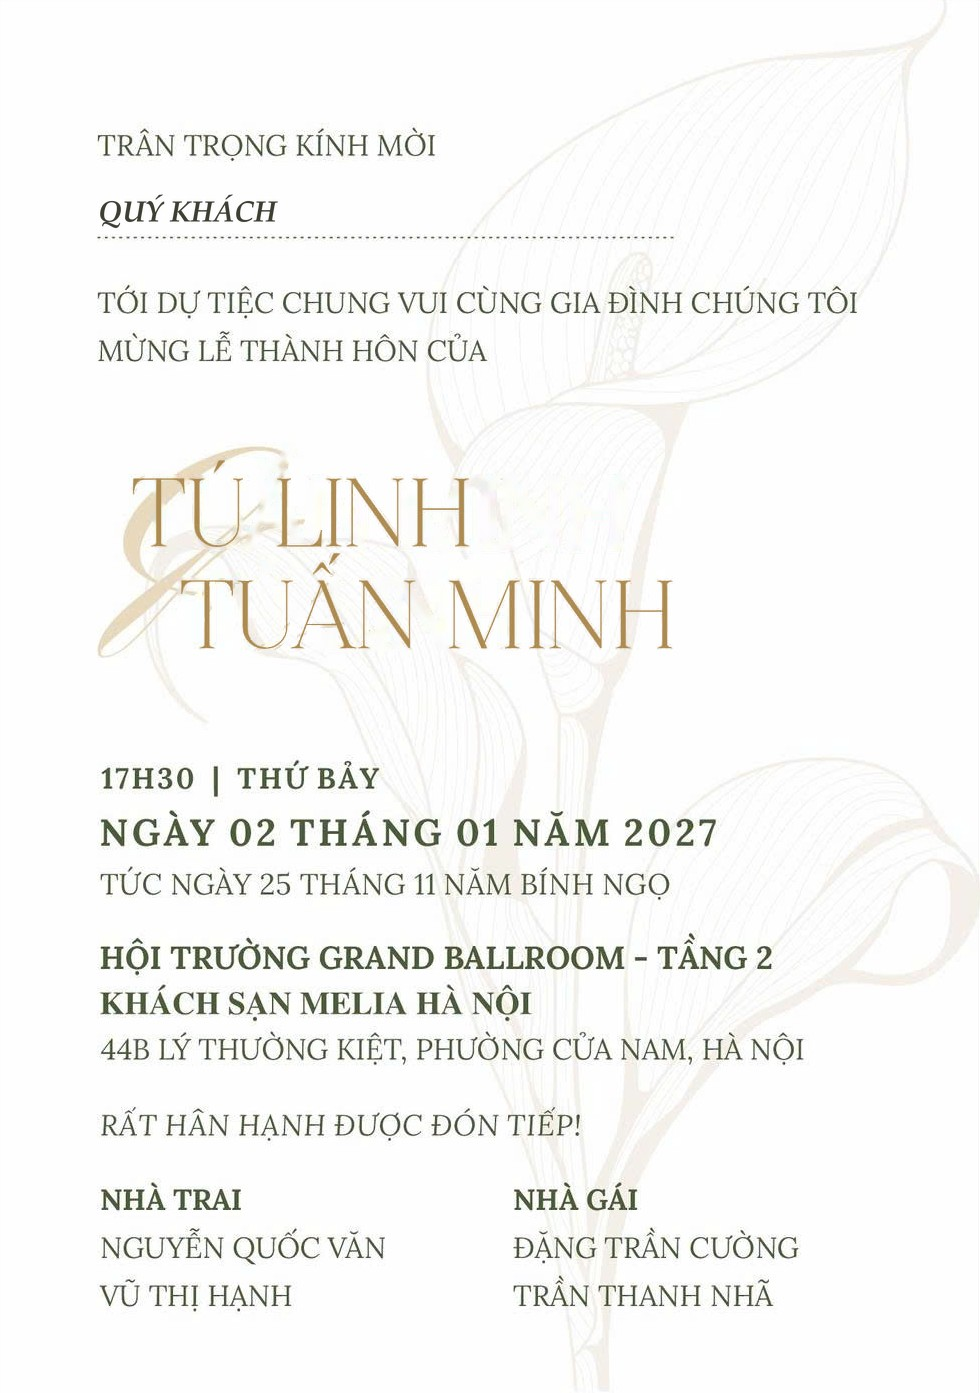
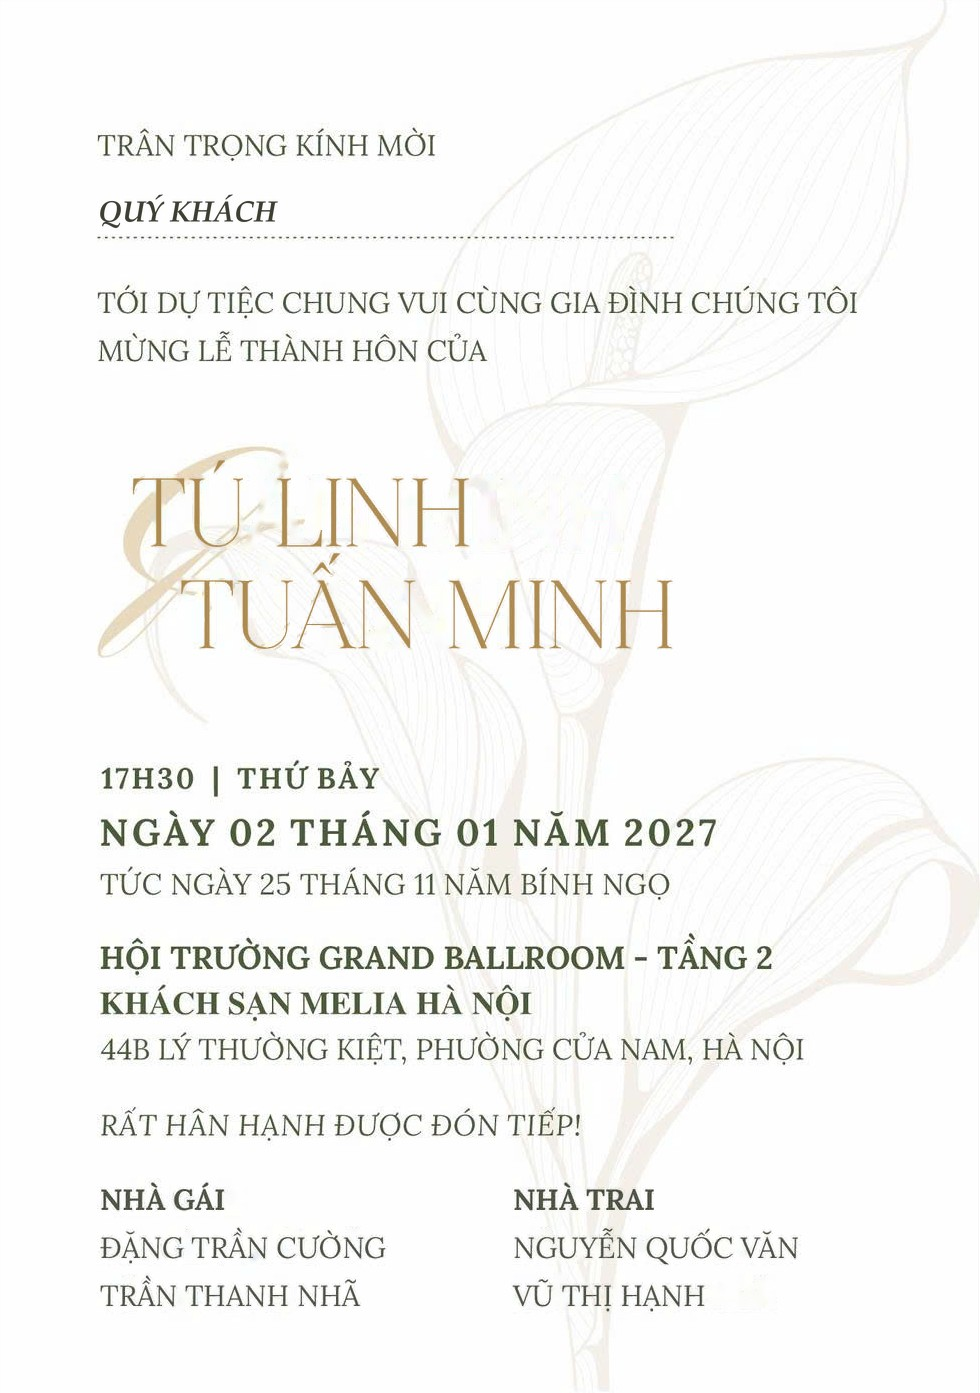
Mặt lời mời: Nhà gái sang bên trái, giữ bản in cũ cho nét
- cat_thiep.py: gộp đảo tên và đổi cột vào hàm doi_cho (giữ dấu nặng nhỏ); DOI_COT đưa Nhà gái sang trái
- Lưu bản duyệt mới của nhà in vào nguon/ban-duyet-in-mat-sau.jpeg (ảnh chụp màn hình, chưa dùng vì kém nét)
- Cập nhật README

Changed region(s): [[0.5204, 0.8335, 0.8265, 0.9569], [0.0918, 0.8335, 0.398, 0.9569]]

diff --git a/cong-cu/cat_thiep.py b/cong-cu/cat_thiep.py
@@ -1,7 +1,8 @@
 """Cắt hai mặt thiệp từ bản duyệt in và ghi vào images/thiep/.
 
 - images/thiep/1.jpg: mặt lời mời, có viết "QUÝ KHÁCH" (in hoa, đậm nghiêng) lên dòng chấm,
-  và đảo thứ tự tên: "TÚ LINH" trước, "TUẤN MINH" sau (DAO_TEN)
+  đảo tên "TÚ LINH" lên trước (DAO_TEN) và đưa cột "NHÀ GÁI" sang bên trái (DOI_COT) — đúng như bản duyệt mới
+  nguon/ban-duyet-in-mat-sau.jpeg nhưng giữ độ nét của bản duyệt chung (bản mới chỉ là ảnh chụp màn hình).
 - images/thiep/2.jpg: mặt chương trình tiệc cưới, đã bỏ mã QR và lề trống
 Đồng thời kiểm tra mã QR in trên thiệp có trỏ đúng link thiệp không.
 
@@ -51,58 +52,88 @@ for x0, x1 in doan:
     mat.append(ban_in.crop((x0 + 3, int(dai[0]) + 3, x1 - 3, int(dai[-1]) + 1 - 3)))
 mat_truoc, mat_sau = mat          # trái: chương trình tiệc, phải: lời mời
 
-# 2a. Mặt lời mời: đảo thứ tự tên — "TÚ LINH" lên dòng trên, "TUẤN MINH" xuống dòng dưới
-#     (giữ nguyên phông, màu, cỡ chữ và kiểu dòng dưới thụt vào của bản in). Đặt DAO_TEN = False để giữ như bản in.
-DAO_TEN = True
-# vùng chứa từng dòng tên trên mặt lời mời (toạ độ điểm ảnh của mặt thiệp đã cắt, gồm cả dấu)
-DONG_TREN = (118, 440, 670, 553)    # "TUẤN MINH" trên bản in
-DONG_DUOI = (150, 556, 560, 656)    # "TÚ LINH" trên bản in
-MAU_TEN = np.array([172, 137, 79])  # vàng của chữ tên
+# Bản duyệt riêng mặt lời mời (ảnh chụp màn hình điện thoại: thẻ trắng trên nền xám, nhà in gửi sau với Tú Linh trước,
+# Nhà gái bên trái). Ảnh chụp màn hình kém nét hơn bản duyệt chung, nên mặc định KHÔNG dùng mà tự đổi chỗ trên bản nét
+# (2a, 2b bên dưới) cho ra cùng nội dung. Đặt DUNG_BAN_RIENG = True nếu nhà in gửi file gốc nét của mặt sau.
+DUNG_BAN_RIENG = False
+MAT_SAU_RIENG = GOC / "nguon" / "ban-duyet-in-mat-sau.jpeg"
+if DUNG_BAN_RIENG and MAT_SAU_RIENG.exists():
+    rieng = Image.open(MAT_SAU_RIENG).convert("RGB")
+    b = np.asarray(rieng).astype(int)
+    trang_b = b.min(axis=2) > 240
+    h_b, w_b = trang_b.shape
+    xs = np.flatnonzero(trang_b[int(h_b * .3):int(h_b * .7)].mean(axis=0) > .5)
+    ys = np.flatnonzero(trang_b[:, int(w_b * .1):int(w_b * .85)].mean(axis=1) > .5)
+    the = rieng.crop((xs.min() + 1, ys.min() + 1, xs.max(), ys.max()))
+    rong = mat_sau.width     # đưa về cùng chiều rộng để toạ độ dòng chấm "QUÝ KHÁCH" vẫn đúng
+    mat_sau = the.resize((rong, round(the.height * rong / the.width)), Image.LANCZOS)
 
 
-def dao_ten(mat):
+def doi_cho(mat, vung1, vung2, la_chu, mau_chu, cung_hang, cham_le=12):
+    """Đổi chỗ chữ trong hai vùng (x0, y0, x1, y1) của ảnh, giữ nguyên phông, màu, cỡ chữ gốc.
+
+    la_chu(lum, sat) -> mặt nạ lõi nét chữ; mau_chu(y) -> màu chữ ở hàng y của vùng gốc;
+    cham_le: bỏ các đốm nhỏ hơn số điểm ảnh này (đặt nhỏ để không mất dấu nặng, dấu chấm).
+    Hai khối được canh theo mép trái; cung_hang=True thì giữ nguyên hàng (chỉ đổi trái/phải),
+    không thì canh theo chân chữ (đổi dòng trên/dưới). Chữ cũ được xoá và vẽ bù nền (hoa rum, nét uốn) bằng inpaint.
+    """
     import cv2
     a = np.asarray(mat).astype(float)
     lum = a @ [.299, .587, .114]
     sat = a[..., 0] - a[..., 2]
-    # lõi nét chữ: đậm hơn hẳn nét hoa rum và nét uốn phía sau (ảnh JPEG làm nhạt màu nét mảnh nên xét độ sáng là chính)
-    loi = (lum < 212) & (sat > 8)
+    loi = la_chu(lum, sat)
     vung = np.zeros(lum.shape, bool)
-    dong = []
-    for x0, y0, x1, y1 in (DONG_TREN, DONG_DUOI):
+    khoi = []
+    for x0, y0, x1, y1 in (vung1, vung2):
         m = np.zeros(lum.shape, np.uint8)
         m[y0:y1, x0:x1] = loi[y0:y1, x0:x1]
         n, nhan, tk, _ = cv2.connectedComponentsWithStats(m, 8)
         for i in range(1, n):                 # bỏ chấm lẻ không thuộc chữ
-            if tk[i, cv2.CC_STAT_AREA] < 12:
+            if tk[i, cv2.CC_STAT_AREA] < cham_le:
                 m[nhan == i] = 0
         m = cv2.dilate(m, np.ones((3, 3), np.uint8), iterations=2) > 0
         ys, xs = np.nonzero(m)
-        dong.append((m, xs.min(), ys.max()))
+        khoi.append((m, xs.min(), ys.max()))
         vung |= m
-    # xoá chữ cũ, vẽ bù nền (hoa rum, nét uốn) bằng inpaint
     bgr = cv2.cvtColor(a.astype(np.uint8), cv2.COLOR_RGB2BGR)
     xoa = cv2.dilate(vung.astype(np.uint8), np.ones((3, 3), np.uint8))
     nen = cv2.cvtColor(cv2.inpaint(bgr, xoa * 255, 4, cv2.INPAINT_TELEA), cv2.COLOR_BGR2RGB).astype(float)
     lum_nen = nen @ [.299, .587, .114]
-    lum_chu = MAU_TEN @ [.299, .587, .114]
-    # độ đậm của chữ ở từng điểm (giữ nét mảnh, viền mịn của chữ gốc)
-    alpha = np.clip((lum_nen - lum) / np.maximum(lum_nen - lum_chu, 1), 0, 1)
     ra = nen.copy()
-    (m1, trai1, day1), (m2, trai2, day2) = dong
-    # dòng dưới cũ ("TÚ LINH") đặt lên chỗ dòng trên; dòng trên cũ ("TUẤN MINH") đặt xuống chỗ dòng dưới
-    for m, dx, dy in ((m2, trai1 - trai2, day1 - day2), (m1, trai2 - trai1, day2 - day1)):
+    (m1, trai1, day1), (m2, trai2, day2) = khoi
+    for m, dx, dy in ((m2, trai1 - trai2, 0 if cung_hang else day1 - day2),
+                      (m1, trai2 - trai1, 0 if cung_hang else day2 - day1)):
         ys, xs = np.nonzero(m)
-        al = alpha[ys, xs][:, None]
+        mau = np.array([mau_chu(y) for y in ys], float)
+        # độ đậm của chữ ở từng điểm (giữ nét mảnh, viền mịn của chữ gốc)
+        al = np.clip((lum_nen[ys, xs] - lum[ys, xs]) / np.maximum(lum_nen[ys, xs] - mau @ [.299, .587, .114], 1), 0, 1)[:, None]
         ny, nx = ys + dy, xs + dx
-        ra[ny, nx] = ra[ny, nx] * (1 - al) + MAU_TEN * al
+        ra[ny, nx] = ra[ny, nx] * (1 - al) + mau * al
     return Image.fromarray(np.clip(ra, 0, 255).astype(np.uint8))
 
 
-if DAO_TEN:
-    mat_sau = dao_ten(mat_sau)
+dung_rieng = DUNG_BAN_RIENG and MAT_SAU_RIENG.exists()     # bản riêng đã đúng thứ tự, không cần đổi
 
-# 2b. Mặt lời mời: viết "QUÝ KHÁCH" lên dòng chấm dưới "TRÂN TRỌNG KÍNH MỜI"
+# 2a. Đảo thứ tự tên: "TÚ LINH" lên dòng trên, "TUẤN MINH" xuống dòng dưới (kiểu dòng dưới thụt vào giữ như bản in)
+DAO_TEN = not dung_rieng
+DONG_TREN = (118, 440, 670, 553)    # "TUẤN MINH" trên bản in (toạ độ mặt lời mời đã cắt, gồm cả dấu)
+DONG_DUOI = (150, 556, 560, 656)    # "TÚ LINH" trên bản in
+MAU_TEN = (172, 137, 79)            # vàng của chữ tên
+if DAO_TEN:
+    # lõi nét chữ tên: đậm hơn hẳn nét hoa rum, nét uốn phía sau (JPEG làm nhạt màu nét mảnh nên xét độ sáng là chính)
+    mat_sau = doi_cho(mat_sau, DONG_TREN, DONG_DUOI, lambda l, s: (l < 212) & (s > 8), lambda y: MAU_TEN, False)
+
+# 2b. Đổi cột: "NHÀ GÁI" (và tên bố mẹ) sang bên trái, "NHÀ TRAI" sang bên phải
+DOI_COT = not dung_rieng
+COT_TRAI = (92, 1172, 402, 1320)    # "NHÀ TRAI" trên bản in
+COT_PHAI = (505, 1172, 812, 1320)   # "NHÀ GÁI" trên bản in
+MAU_TIEU_DE, MAU_TEN_BO_ME, HANG_TACH = (60, 66, 51), (72, 75, 64), 1218   # chữ đậm "NHÀ ..." / tên bố mẹ
+if DOI_COT:
+    # chữ xanh rêu xám: tối hơn hẳn nét hoa rum rất nhạt phía sau
+    mat_sau = doi_cho(mat_sau, COT_TRAI, COT_PHAI, lambda l, s: l < 205,
+                      lambda y: MAU_TIEU_DE if y < HANG_TACH else MAU_TEN_BO_ME, True, cham_le=3)   # giữ dấu nặng (Ặ, Ị, Ạ)
+
+# 2c. Mặt lời mời: viết "QUÝ KHÁCH" lên dòng chấm dưới "TRÂN TRỌNG KÍNH MỜI"
 K = 4
 f = ImageFont.truetype(PHONG, 29 * K)
 lop = Image.new("L", (mat_sau.width * K, mat_sau.height * K), 0)

diff --git a/README.md b/README.md
@@ -12,7 +12,7 @@ Thiệp cưới online của Tuấn Minh & Tú Linh, chạy trên GitHub Pages:
 1. **Màn mở thiệp**: logo LM vàng đồng, "Save the date" (phông Pinyon Script, màu nâu xám nhạt), ngày 02.01.2027, đôi lego và nút "Mở thiệp".
    Chạm vào thì đôi lego nhún nhảy, pháo hoa kiểu liễu vàng nổ (một màu vàng kim cùng màu logo, 11 chùm, vệt rủ như cành liễu, kim tuyến, ba chùm kết),
    nhạc Sugar (Maroon 5) bắt đầu. Màn này luôn tự đóng sau ~6 giây kể cả khi máy tạm dừng hoạt ảnh.
-2. **Hai mặt thiệp** cắt từ bản duyệt in: mặt lời mời (có chữ "QUÝ KHÁCH" in hoa đậm nghiêng trên dòng chấm; tên đảo thành "TÚ LINH" trước, "TUẤN MINH" sau — khác bản in)
+2. **Hai mặt thiệp** cắt từ bản duyệt in: mặt lời mời (nội dung như bản duyệt mới `nguon/ban-duyet-in-mat-sau.jpeg`: "TÚ LINH" trước, Nhà gái bên trái — nhưng làm từ bản duyệt chung cho nét; có chữ "QUÝ KHÁCH" in hoa đậm nghiêng trên dòng chấm)
    và mặt chương trình tiệc cưới (đã bỏ mã QR). Chạm vào để phóng to.
 3. **Xác nhận tham dự**: chọn "Sẽ tham dự" thì hiện họ tên, số người, khách nhà trai/gái, lời chúc;
    chọn "Không thể tham dự" thì chỉ hỏi họ tên. Dữ liệu ghi vào Google Sheet (xem bên dưới).
@@ -95,7 +95,7 @@ Khoảng 1–2 phút sau link công khai đổi theo. Máy nào còn hiện bả
 
 | Script | Việc |
 |---|---|
-| `cat_thiep.py [ảnh duyệt in]` | Cắt 2 mặt thiệp từ `nguon/ban-duyet-in.jpeg`, viết "QUÝ KHÁCH", đảo tên Tú Linh lên trước (`DAO_TEN`, vùng tên khai báo trong file), bỏ QR ở mặt chương trình, **kiểm tra QR in trên thiệp khớp link**. Dùng phông Palatino đậm nghiêng có sẵn trên Windows. Khi nhà in gửi bản duyệt mới (cùng bố cục): chép vào `nguon/ban-duyet-in.jpeg` rồi chạy lại. |
+| `cat_thiep.py [ảnh duyệt in]` | Cắt 2 mặt thiệp từ `nguon/ban-duyet-in.jpeg`; trên mặt lời mời tự đảo tên Tú Linh lên trước (`DAO_TEN`) và đưa cột Nhà gái sang trái (`DOI_COT`) — vùng chữ khai báo trong file; `DUNG_BAN_RIENG = True` để dùng thẳng bản duyệt riêng mặt sau nếu nhà in gửi file nét; viết "QUÝ KHÁCH", bỏ QR ở mặt chương trình, **kiểm tra QR in trên thiệp khớp link**. Dùng phông Palatino đậm nghiêng có sẵn trên Windows. Khi nhà in gửi bản duyệt mới (cùng bố cục): chép vào `nguon/ban-duyet-in.jpeg` rồi chạy lại. |
 | `thu_nho_anh_cuoi.py [thư mục]` | Thu nhỏ ảnh cưới gốc còn cạnh dài 1600 px, bỏ EXIF, ghi `images/gallery/01.jpg…`. Thứ tự sửa trong danh sách `THU_TU`. Nhớ cập nhật `gallery` trong `config.js`. |
 | `tach_nhan_vat.py [tên...]` | Tách các nhân vật trong `images/lego/` khỏi nền tranh bằng GrabCut; khai báo khung và đường bao váy vẽ tay trong `NHAN_VAT`. Ghi PNG 256 màu (nhẹ 4–5 lần) và bản xem thử `_thu/xem-nhan-vat.png`. Có thể chạy vài phút mỗi hình. |
 | `tach_lego_moi.py` | Tách đôi lego đang dùng khỏi nền tranh `nguon/lego-moi-goc.jpg` bằng GrabCut (cần `opencv-python-headless`); đường bao thô vẽ tay cho riêng ảnh này. |
